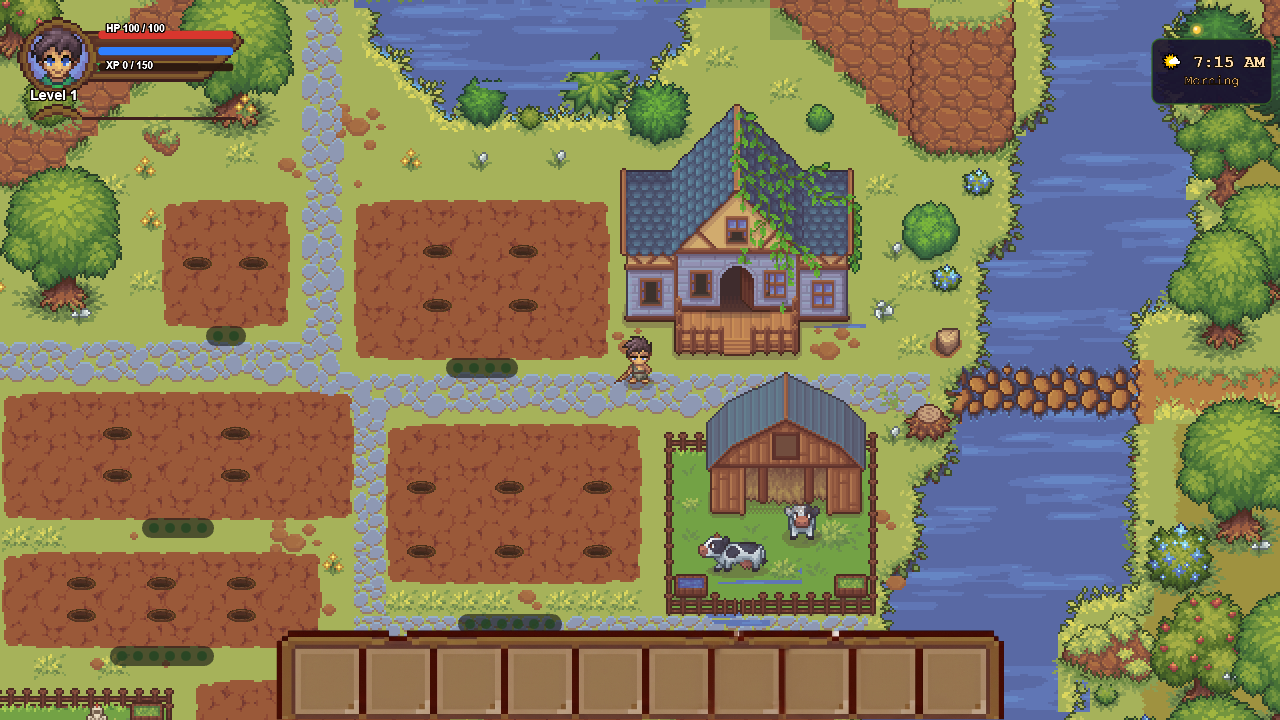
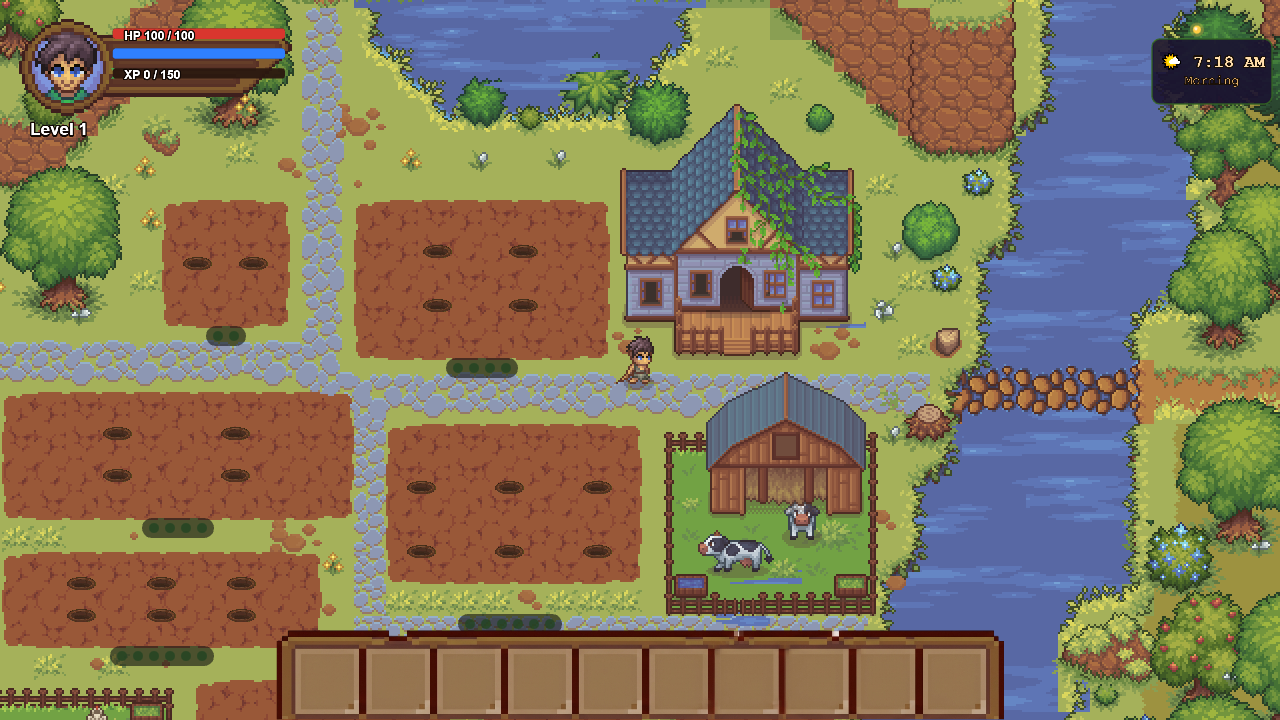
update

diff --git a/js/systems/HealthBarHUD.js b/js/systems/HealthBarHUD.js
@@ -1,8 +1,9 @@
 class HealthBarHUD {
-  static SCALE = 2.7;
+  static SCALE = 3.25;
   static PAD_X = 12;
   static PAD_Y = 12;
   static DEPTH = 9110;
+  static PANEL = { x: 0, y: 0, w: 96, h: 32 };
 
   constructor(scene) {
     this.scene = scene;
@@ -21,9 +22,9 @@ class HealthBarHUD {
     this._barFull = this._panel;
 
     this._bars = scene.add.graphics().setScrollFactor(0).setDepth(DEPTH + 1);
-    this._hpText = this._makeText(PAD_X + 92, PAD_Y + 15, 'HP 100 / 100', 10);
-    this._levelText = this._makeText(PAD_X + 16, PAD_Y + 82, 'Level 1', 14);
-    this._xpText = this._makeText(PAD_X + 92, PAD_Y + 52, 'XP 0 / 150', 10);
+    this._hpText = this._makeText(this._screenX(34), this._screenY(6.8), 'HP 100 / 100', 12);
+    this._levelText = this._makeText(this._screenX(5), this._screenY(36), 'Level 1', 17);
+    this._xpText = this._makeText(this._screenX(34), this._screenY(18.8), 'XP 0 / 150', 12);
 
     this._draw();
   }
@@ -64,17 +65,27 @@ class HealthBarHUD {
   _ensurePanelFrame() {
     const tex = this.scene.textures.get('ui_character_panel');
     if (tex && !tex.frames.empty_panel) {
-      tex.add('empty_panel', 0, 0, 0, 96, 40);
+      const p = HealthBarHUD.PANEL;
+      tex.add('empty_panel', 0, p.x, p.y, p.w, p.h);
     }
   }
 
-  _barRect(sourceY) {
+  _screenX(sourceX) {
     const scale = HealthBarHUD.SCALE;
+    return HealthBarHUD.PAD_X + sourceX * scale;
+  }
+
+  _screenY(sourceY) {
+    const scale = HealthBarHUD.SCALE;
+    return HealthBarHUD.PAD_Y + sourceY * scale;
+  }
+
+  _barRect(sourceY) {
     return {
-      x: HealthBarHUD.PAD_X + 32 * scale,
-      y: HealthBarHUD.PAD_Y + sourceY * scale,
-      w: 50 * scale,
-      h: 3 * scale,
+      x: this._screenX(31),
+      y: this._screenY(sourceY),
+      w: 53 * HealthBarHUD.SCALE,
+      h: 3.2 * HealthBarHUD.SCALE,
     };
   }
 
@@ -94,9 +105,9 @@ class HealthBarHUD {
       : Phaser.Math.Clamp(this._xp.xp / this._xp.xpToNext, 0, 1);
 
     this._bars.clear();
-    this._drawBar(this._barRect(7), hpPct, 0xd9362e);
-    this._drawBar(this._barRect(13), staminaPct, 0x2f80ff);
-    this._drawBar(this._barRect(19), xpPct, 0x30c85a);
+    this._drawBar(this._barRect(5.1), hpPct, 0xd9362e);
+    this._drawBar(this._barRect(11.2), staminaPct, 0x2f80ff);
+    this._drawBar(this._barRect(17.3), xpPct, 0x30c85a);
 
     this._hpText?.setText(`HP ${Math.round(this._health.current)} / ${Math.round(this._health.max)}`);
     this._levelText?.setText(`Level ${this._xp.level}`);

diff --git a/progress.md b/progress.md
@@ -62,3 +62,6 @@ TODO:
 - Current prompt: Corriger/ameliorer l'UI joueur top-left avec le vrai character_panel sans barres fixes, HP rouge dynamique, stamina bleue liee au sprint Shift, XP verte dynamique et textes HP/XP.
 - Copied assets/ui/PNG/character_panel.png from the supplied UI pack and rebuilt HealthBarHUD to use the empty panel frame with Graphics-drawn HP/stamina/XP bars. PlayerSystem now tracks max/current stamina, drains it while sprinting with Shift, prevents sprint at 0, regenerates at 20/sec (0 to 100 in about 5 seconds), and restores stamina on respawn. GameScene/UIScene now route stamina and XP into the unified HUD.
 - Verified with Playwright: player-hud-stamina-test confirms empty panel frame, HP damage/respawn text, no stamina text, sprint faster than walk while stamina > 0, no sprint at 0 stamina, regen to near full, and XP text/bar updates. sword-ui-test, player-respawn-test, hero-xp-test, enemy-health-bar-test, golem-spawn-test and develop-web-game smoke client still pass; smoke screenshot visually confirms clean top-left HUD.
+- Current prompt: Corriger le crop, l'ancrage et la taille de l'UI joueur top-left.
+- Cropped the UI panel frame to the exact empty-panel region of character_panel.png, enlarged the HUD scale to 3.25, and repositioned HP/stamina/XP bars plus HP/XP/level text so the bars sit inside the frame without the lower parasite slice.
+- Verified with Playwright: player-hud-stamina-test screenshot confirms the parasite strip is gone and the larger HUD is readable; sword-ui-test, player-respawn-test, hero-xp-test, enemy-health-bar-test, golem-spawn-test and the local smoke client still pass. npm build is not available because this static project has no package.json.
